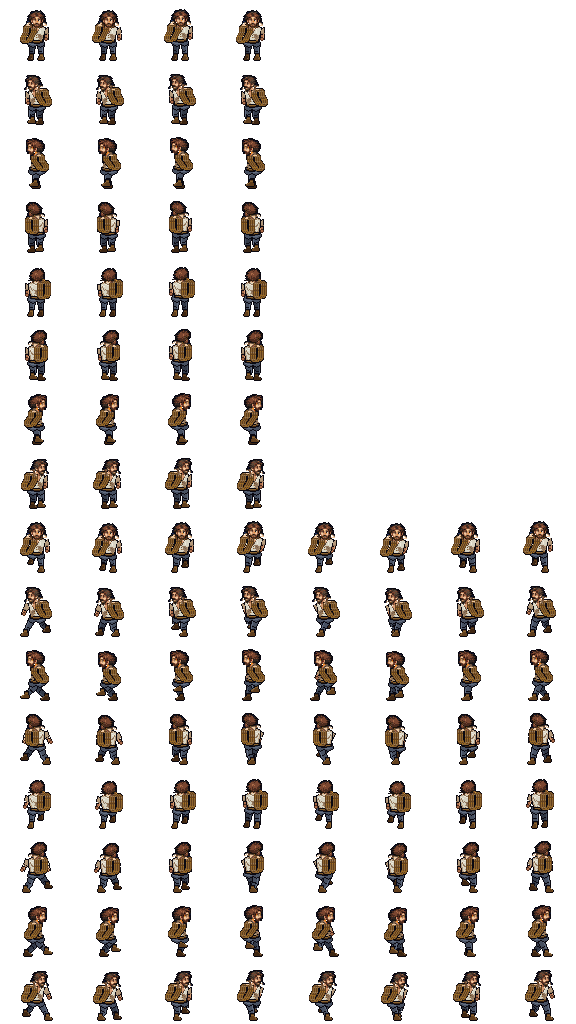
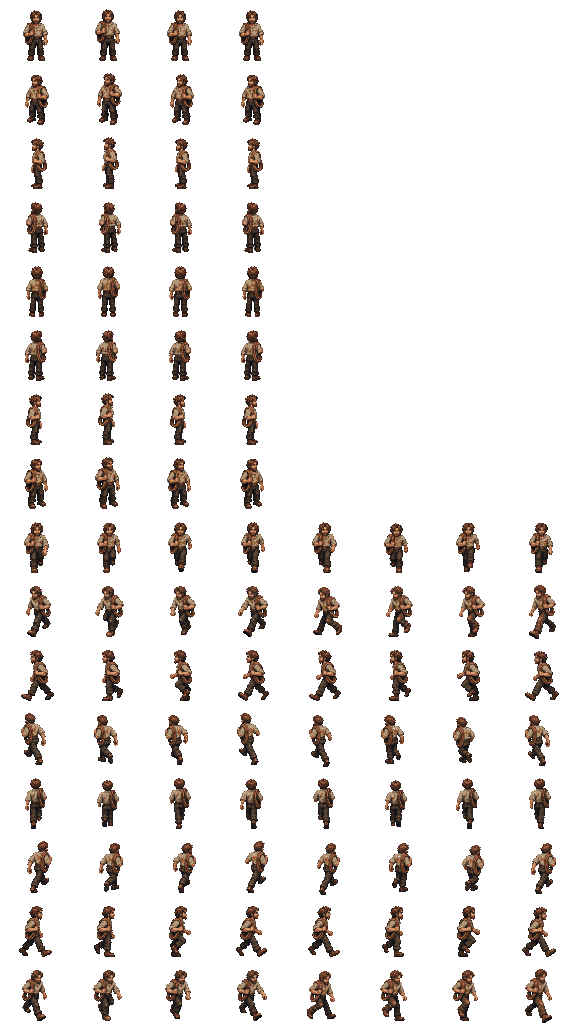
The hired hand redrawn: the art desk's illustrated figures cut by its own recipe, the house's colours
Art-wanted 65's ART-WANTED-76 HIRED-HAND ILLUSTRATED REVIEW, the man and the woman, on the lanes desk's relay of Griz's
word, verbatim: "hired hand is in Fresh but I'm not sure it's complete - art dept hit ceiling, but it might have been on a
redraw attempt and we can wishlist what's broken and use what's there if it included all the pieces". Every piece was there
(both figures, five views, idle 4 and walk 8; 23 pages, every SHA-256 matched), three walks held by the art desk for a
repeated lead. Sorted to deep16/_src/folkcostumes/2026-11-16-ART-WANTED-76-HIRED-HAND-REDRAW/
(_src/art-desk/art76-hired-redraw-sort-2026-11-16.py).

tools/folk-costume-sheet.py `illus`: an illustrated redraw on the navy with no native cut -- the art desk's crop, key,
BOX reduction and place from FRAME-MAP.json and CUTTER-NOTES.md (reproduced against its own 1x previews: the outline exact
in all 120 frames), the colours by the house's two rules (`house_colours`, shared with the lime path: the art desk's
nearest-in-RGB put orange on the hands and red spots on the shirts). Every other costume rebuilt byte for byte.

folk1115 22 ok, parade1115 21 ok. Eyes eyes-folk-hired-redraw-1116 (the parade at the hell hound); the held walks on the
dream list.

diff --git a/js/eyes.js b/js/eyes.js
@@ -22,6 +22,11 @@
   var DS = window.DS = window.DS || {};
   var G1 = 'Eyes: first', G2 = 'Eyes: built this week', G3 = 'Eyes: built before, never seen';
   DS.EYES = {
+    // THE REDRAW CUTTER (cutter-redraw-1116), 11-16 (Opus; tools/folk-costume-sheet.py `illus`; deep16/art/folk{man,woman}_hired_p1): the hired hand redrawn
+    'eyes-folk-hired-redraw-1116': { pri: 2, group: G2, title: 'THE HIRED HAND REDRAWN: the street hand and the Galleries\' rope-war in the art desk\'s illustrated figures (11-16)', pt: 'the bestiary lane, 2026-11-16 (the redraw cutter, cutter-redraw-1116; tools/folk-costume-sheet.py; deep16/art/folk{man,woman}_hired_p1)',
+      obj: 'In the parade, watch the hired hands walk in round the hell hound — do they read as their portraits, rope on the shoulder?',
+      url: 'deep16/?parade&only=wyvern,frostgiant,winterwolf,hellhound&from=4&fresh=1116hh',
+      look: 'A SHOW, the parade opened at its fourth creature, the hell hound, which the hired hand (the man and the woman) and the guard walk in round. Your "hired hand is in Fresh but I\'m not sure it\'s complete - art dept hit ceiling, but it might have been on a redraw attempt and we can wishlist what\'s broken and use what\'s there if it included all the pieces": it did include them all, so it is cut whole, in place of the code-drawn pair -- a sweat-stained shirt and a coil of rope over the shoulder. Three walks the art desk held for a fix it ran out of drawing for (the man\'s E and NE, the woman\'s NE, with their mirrors: the second half-stride leads with the same leg as the first) are in as drawn and on the wishlist. Their own floors: the street hand on Silverton\'s street (deep16/?roam=silverton&lvl=3), the rope-war on the Guano Galleries (deep16/?roam=galleries_g2&at=15,7&light=lantern&lvl=3); every frame on deep16/?rows=folkman_hired_p1,folkwoman_hired_p1. Judge: do they read as the hired hands of their portraits, and does a held walk limp?' },
     // THE REDRAW CUTTER (cutter-redraw-1116), 11-16 (Opus; tools/folk-costume-sheet.py; deep16/art/folk{man,woman}_{gambler,barkeep}_p1): the gambler and the barkeep redrawn
     'eyes-folk-gambler-barkeep-redraw-1116': { pri: 2, group: G2, title: 'THE GAMBLER AND THE BARKEEP REDRAWN: the Hex\'s four in the art desk\'s illustrated figures (11-16)', pt: 'the bestiary lane, 2026-11-16 (the redraw cutter, cutter-redraw-1116; tools/folk-costume-sheet.py; deep16/art/folk{man,woman}_{gambler,barkeep}_p1)',
       obj: 'In the parade, watch the gamblers and barkeeps walk in round the winter wolf — do they look like their portraits?',

diff --git a/deep16/data/sprites.js b/deep16/data/sprites.js
@@ -5293,7 +5293,7 @@
 "source": "drawn by the art desk (ART-WANTED-77 GUARD, 11-15: five views, Idle 4 and Walk 8, native 3x on folkman_p1's cell), cut by tools/folk-costume-sheet.py (11-15)"
 },
 "folkman_hired_p1": {
-"image": "art/folkman_hired_p1.png?v=1d99039cfe",
+"image": "art/folkman_hired_p1.png?v=b4bc7b7ff0",
 "fw": 72,
 "fh": 64,
 "ax": 36,
@@ -5319,7 +5319,7 @@
 "fps": 12
 }
 },
-"source": "drawn by the art desk (ART-WANTED-76 HIRED-HAND, 11-15: five views, Idle 4 and Walk 8, native 4x on folkman_p1's cell), cut by tools/folk-costume-sheet.py (11-15)"
+"source": "drawn by the art desk (ART-WANTED-76 HIRED-HAND ILLUSTRATED REDRAW, 11-16: five views, Idle 4 and Walk 8, image-generated on the navy), cut by tools/folk-costume-sheet.py (11-15)"
 },
 "folkman_lightcrew_p1": {
 "image": "art/folkman_lightcrew_p1.png?v=f1a20814eb",
@@ -5612,7 +5612,7 @@
 "source": "drawn by the art desk (ART-WANTED-77 GUARD, 11-15: five views, Idle 4 and Walk 8, native 3x on folkman_p1's cell), cut by tools/folk-costume-sheet.py (11-15)"
 },
 "folkwoman_hired_p1": {
-"image": "art/folkwoman_hired_p1.png?v=67bb65fef8",
+"image": "art/folkwoman_hired_p1.png?v=926685ed8c",
 "fw": 72,
 "fh": 64,
 "ax": 36,
@@ -5638,7 +5638,7 @@
 "fps": 12
 }
 },
-"source": "drawn by the art desk (ART-WANTED-76 HIRED-HAND, 11-15: five views, Idle 4 and Walk 8, native 4x on folkman_p1's cell), cut by tools/folk-costume-sheet.py (11-15)"
+"source": "drawn by the art desk (ART-WANTED-76 HIRED-HAND ILLUSTRATED REDRAW, 11-16: five views, Idle 4 and Walk 8, image-generated on the navy), cut by tools/folk-costume-sheet.py (11-15)"
 },
 "folkwoman_lightcrew_p1": {
 "image": "art/folkwoman_lightcrew_p1.png?v=b84510e91a",

diff --git a/deep16/index.html b/deep16/index.html
@@ -77,7 +77,7 @@
 <script src="js/art.js?v=e1ce4cf012"></script>
 <script src="data/cavern.js?v=647c1a184a"></script>
 <script src="data/maps.js?v=bef56a5de9"></script>
-<script src="data/sprites.js?v=17d39f627d"></script>
+<script src="data/sprites.js?v=4d93ab7fe5"></script>
 <script src="js/sprites.js?v=ac7a3234c4"></script>
 <script src="js/save.js?v=f69af62f01"></script>
 <script src="data/spells.js?v=ae0037fb81"></script>
@@ -191,7 +191,7 @@
 <script src="js/parade.js?v=c64f9440c0"></script>
 <script src="js/ripplesfight.js?v=06a2bb3211"></script>
 <script src="js/blackegg.js?v=a19c31ed0d"></script>
-<script src="../js/eyes.js?v=eeb3924b89"></script>
+<script src="../js/eyes.js?v=fd46fdd3ce"></script>
 <script src="../js/tour.js?v=b1204ba29c"></script>
 <script src="js/onegallery.js?v=76e4ef74c9"></script>
 <script src="js/situations16.js?v=f04fedccd1"></script>

diff --git a/tools/folk-costume-sheet.py b/tools/folk-costume-sheet.py
@@ -29,6 +29,14 @@ saturation over 0.25: the woman's shawl) -- else the warm browns of hair, mug, b
 1x shows (the 10-29 cutters' "avoid red and fire", kept off the one cloth that is red); and a pale cloth (saturation under 0.55: the man's
 work shirt, the woman's apron and sleeves) kept off skin and gold as well -- else the shirt snaps to the skin ramp whole and he reads
 shirtless (the cutscene cutter's 10-29 "a cream cloth at the skin's hue ... kept out by the band"). Faces and hands run 0.6 and up.
+
+The ILLUSTRATED REDRAWS ON THE NAVY WITH NO NATIVE CUT (`illus`, 11-16; the redraw cutter seat, on the lanes desk's relay of Griz's "hired hand is in
+Fresh but I'm not sure it's complete - art dept hit ceiling, but it might have been on a redraw attempt and we can wishlist what's broken and use
+what's there if it included all the pieces"): the hired hand's FRAME-MAP.json gives each frame's crop (`source_xywh`), its size at 1x
+(`reduce_wh`) and its place in the cell (`paste_xy`); its CUTTER-NOTES.md the key -- the navy the channel-wise median of the crop's outermost three
+columns each side (the approved checkpoint page: its left 35, and its enclosed holes under 62 source pixels filled), the largest 4-connected piece
+whose largest channel stands more than 10 off it, Pillow BOX down, alpha at 124. Reproduced against the art desk's own 1x previews: the outline
+exact in all 120 frames. The colours by the house's two rules, the lime path's (`house_colours`), not the art desk's nearest-in-RGB.
 """
 import os, sys, json, csv
 import importlib.util
@@ -72,8 +80,11 @@ PIECES = {
                     navy=None, stand=False, unred={'folkman_gambler_p1': 12, 'folkwoman_gambler_p1': 12}),
     'barkeep': dict(folder='2026-11-16-ART-WANTED-75-BARKEEP-REDRAW', name='ART-WANTED-75 BARKEEP ILLUSTRATED REDRAW, 11-16: five views, Idle 4 and Walk 8, image-generated, its native cut 1x on folkman_p1\'s cell',
                     navy=None, stand=False, unred={'folkman_barkeep_p1': 17, 'folkwoman_barkeep_p1': 0}),
-    'hired': dict(folder='2026-11-15-ART-WANTED-76-HIRED-HAND', name='ART-WANTED-76 HIRED-HAND, 11-15: five views, Idle 4 and Walk 8, native 4x on folkman_p1\'s cell',
-                  navy=(17, 24, 45), stand=False),
+    # (the hired hand's first, code-drawn pages -- 2026-11-15-ART-WANTED-76-HIRED-HAND, native 4x, navy (17, 24, 45) -- replaced by its redraw, 11-16:
+    # image-generated on the navy with no native cut, `illus`; three walks the art desk held for a repeated lead (the man's E and NE, the woman's NE)
+    # cut as drawn on his "use what's there", on the dream list)
+    'hired': dict(folder='2026-11-16-ART-WANTED-76-HIRED-HAND-REDRAW', name='ART-WANTED-76 HIRED-HAND ILLUSTRATED REDRAW, 11-16: five views, Idle 4 and Walk 8, image-generated on the navy',
+                  illus={'HIRED-HAND-WOMAN-SOUTH-IDLE-IMAGEGEN.png': (35, 62)}, stand=False),
     'guard': dict(folder='2026-11-15-ART-WANTED-77-GUARD', name='ART-WANTED-77 GUARD, 11-15: five views, Idle 4 and Walk 8, native 3x on folkman_p1\'s cell',
                   navy=(16, 18, 40), stand=False),
     'crewboss': dict(folder='2026-11-15-ART-WANTED-78-CREW-BOSS-WORLD', name='ART-WANTED-78 CREW-BOSS-WORLD, 11-15: five views, Idle 4 and Walk 8, native 4x on folkman_p1\'s cell',
@@ -146,6 +157,19 @@ LIME_REDBAND = (330, 360, 0.25)        # (red and fire only on a crimson: hue fr
 LIME_CLOTH = 0.55                      # (under this saturation a pale cloth, kept off skin and gold too)
 
 
+def house_colours(rgb):
+    """reduced colours (0-1) -> the 64 by the house's two rules: red and fire only on a crimson; a pale cloth kept off skin and gold too"""
+    mx, mn = rgb.max(-1), rgb.min(-1)
+    d = np.maximum(mx - mn, 1e-6)
+    hue = np.where(mx == rgb[..., 0], ((rgb[..., 1] - rgb[..., 2]) / d) % 6,
+                   np.where(mx == rgb[..., 1], (rgb[..., 2] - rgb[..., 0]) / d + 2, (rgb[..., 0] - rgb[..., 1]) / d + 4)) * 60
+    lo, hi, smin = LIME_REDBAND
+    sat = (mx - mn) / np.maximum(mx, 1e-6)
+    crim = (hue >= lo) & (hue < hi) & (sat > smin)
+    return np.where(crim[..., None], pix.snap(rgb),
+                    np.where((sat < LIME_CLOTH)[..., None], pix.snap(rgb, ['red', 'fire', 'skin', 'gold']), pix.snap(rgb, ['red', 'fire'])))
+
+
 def lime_frame(a, rw, rh):
     """one illustrated pose on the lime ground -> RGBA at rw x rh, every colour one of the 64 (the module's head: the art desk's recipe,
     despilled, red kept to the crimson)"""
@@ -160,15 +184,7 @@ def lime_frame(a, rw, rh):
     rgba = np.dstack([c.astype(np.uint8), (m * 255).astype(np.uint8)])
     r = np.asarray(Image.fromarray(rgba, 'RGBA').resize((rw, rh), Image.LANCZOS)).astype(np.float32)
     rgb, solid = r[..., :3] / 255, r[..., 3] >= 123
-    mx, mn = rgb.max(-1), rgb.min(-1)
-    d = np.maximum(mx - mn, 1e-6)
-    hue = np.where(mx == rgb[..., 0], ((rgb[..., 1] - rgb[..., 2]) / d) % 6,
-                   np.where(mx == rgb[..., 1], (rgb[..., 2] - rgb[..., 0]) / d + 2, (rgb[..., 0] - rgb[..., 1]) / d + 4)) * 60
-    lo, hi, smin = LIME_REDBAND
-    sat = (mx - mn) / np.maximum(mx, 1e-6)
-    crim = (hue >= lo) & (hue < hi) & (sat > smin)
-    sn = np.where(crim[..., None], pix.snap(rgb),
-                  np.where((sat < LIME_CLOTH)[..., None], pix.snap(rgb, ['red', 'fire', 'skin', 'gold']), pix.snap(rgb, ['red', 'fire'])))
+    sn = house_colours(rgb)
     out = np.zeros((rh, rw, 4), np.uint8)
     out[solid, :3] = sn[solid]; out[solid, 3] = 255
     return out
@@ -191,6 +207,43 @@ def lime_frames(d, fw, fh):
     return out
 
 
+def illus_frames(d, fw, fh, special):
+    """an illustrated redraw on the navy with no native cut -> [(sheet, view, row, index, RGBA cell)]: the art desk's crop, key, reduction and
+    place (the module's head), the house's colours; `special` {page: (edge columns from the left, holes under this filled)}"""
+    pages, out = {}, []
+    for e in json.load(open(os.path.join(d, 'FRAME-MAP.json'), encoding='utf-8')):
+        p = e['source_png']
+        if p not in pages:
+            pages[p] = np.asarray(Image.open(os.path.join(d, p)).convert('RGB')).astype(np.int32)
+        x, y, w, h = e['source_xywh']
+        c = pages[p][y:y + h, x:x + w]
+        left, holes = special.get(os.path.basename(p), (None, 0))
+        edge = c[:, :left] if left else np.concatenate([c[:, :3], c[:, -3:]], 1)
+        navy = np.median(edge.reshape(-1, 3), axis=0)
+        fg = np.abs(c - navy).max(-1) > 10
+        lab, n = ndimage.label(fg)
+        if not n:
+            raise SystemExit('%s: no figure in the window' % p)
+        keep = lab == 1 + int(np.argmax(ndimage.sum(fg, lab, range(1, n + 1))))
+        if holes:
+            hl, hn = ndimage.label(ndimage.binary_fill_holes(keep) & ~keep)
+            for k, sz in enumerate(ndimage.sum(hl > 0, hl, range(1, hn + 1)), 1):
+                if sz < holes:
+                    keep |= hl == k
+        rw, rh = e['reduce_wh']
+        px, py = e['paste_xy'][:2]
+        if px < 0 or py < 0 or px + rw > fw or py + rh > fh:
+            raise SystemExit('%s %s %s %d: placed outside the cell' % (e['runtime_target'], e['facing'], e['runtime_row'], e['frame_1based']))
+        r = np.asarray(Image.fromarray(np.dstack([c.astype(np.uint8), (keep * 255).astype(np.uint8)]), 'RGBA').resize((rw, rh), Image.BOX)).astype(np.float32)
+        solid = r[..., 3] >= 124
+        sn = house_colours(r[..., :3] / 255)
+        cell = np.zeros((fh, fw, 4), np.uint8)
+        cell[py:py + rh, px:px + rw][solid, :3] = sn[solid]
+        cell[py:py + rh, px:px + rw][solid, 3] = 255
+        out.append((e['runtime_target'], e['facing'], e['runtime_row'], int(e['frame_1based']) - 1, cell))
+    return out
+
+
 def cut(costume):
     """-> {sheet name: {row: [8 facings of [RGBA frames]]}}. A fight piece says its own `cell` (fw, fh, ax, ay), its `targets` {the art
     desk's target: the sheet} and its `rows` [(the art desk's row, the sheet's row, frames, fps, release)]; a costume takes folkman_p1's"""
@@ -200,15 +253,15 @@ def cut(costume):
     rowmap = {r[0]: (r[1], r[2]) for r in P['rows']} if P.get('rows') else {an: (an, n) for an, n in COUNT.items()}
     d = os.path.join(AD.src_dir(ROOT), 'folkcostumes', P['folder'])
     pal, got, pages = palette(), {}, {}
-    if P.get('lime'):
-        for name, v, an, idx, fr in lime_frames(d, fw, fh):
+    if P.get('lime') or P.get('illus'):
+        for name, v, an, idx, fr in (illus_frames(d, fw, fh, P['illus']) if P.get('illus') else lime_frames(d, fw, fh)):
             if name not in names or an not in rowmap:
                 raise SystemExit('a frame for %s %s, not %s' % (name, an, costume))
             off = {tuple(c) for c in fr[fr[..., 3] > 0][:, :3]} - pal
             if off:
                 raise SystemExit('%s %s %s %d: %d colours off the 64' % (name, v, an, idx + 1, len(off)))
             got.setdefault(names[name], {}).setdefault(v, {}).setdefault(rowmap[an][0], {})[idx] = fr
-    for name, v, an, idx, page, (x, y, w, h) in ([] if P.get('lime') else frames_of(d)):
+    for name, v, an, idx, page, (x, y, w, h) in ([] if P.get('lime') or P.get('illus') else frames_of(d)):
         if name not in names:
             raise SystemExit('%s: a frame for %s, not %s' % (page, name, costume))
         if an not in rowmap:

diff --git a/deep16-dream-polish.md b/deep16-dream-polish.md
@@ -148,3 +148,4 @@ Griz, 10-30, to the lanes desk, on Talmok's walks that repeat a leg: *"gimpy art
 - 2026-11-16 · `folkman_gambler_p1` SE walk and its SW mirror; `folkwoman_gambler_p1` NE and N walks (the art desk's 74 illustrated redraw) · The art desk's own notes: the man's head drops 3 px at frame 5 with his feet on the line, a dip at the second contact (measured on the cut: his crown on row 13, 10 in the rest); the woman's skirt hides her far boot in the walks from behind. Cut as drawn. · An SE walk whose frame 5 stands at the other contacts' height; rear walks with both boots showing.
 - 2026-11-16 · `folkwoman_barkeep_p1` N walk (the art desk's 75 illustrated redraw) · The art desk's own note, measured on the cut: her crown rises 2 px at frame 5 (row 11, 13 before) and drops to 14 at 6 and 7, a bob where the second half-stride's new poses join. Cut as drawn. · An N walk whose second half-stride holds the first's height.
 - 2026-11-16 · `pegasus_p1` fly, takeflight, walk (the art desk's 69 illustrated redraw) · The art desk's own review holds: each frame was stood by its own lowest pixel, so in flight the body bobs with the wings -- the big jumps (14 to 19 px, SE and E) laid back by the cutter, about 6 px left in S frame 6 and SE frame 5; Take Flight's last frame is not Fly's first (a small jump in scale and wing at the top); the E and rear NE walks' leg contacts not checked as a gait. Cut as drawn but the big jumps. · A flight cycle registered on the body, a take-off ending on Fly's first pose, and walks with the contacts alternating.
+- 2026-11-16 · `folkman_hired_p1` E and NE walks (and their W and NW mirrors), `folkwoman_hired_p1` NE walk (and NW) (the art desk's 76 illustrated redraw) · Held by the art desk, which hit its image ceiling mid-fix: frames 1 and 5 lead with the same leg, so the stride repeats. Cut as drawn on his *"we can wishlist what's broken and use what's there if it included all the pieces"*. Its own note too: in the three repaired walks (the woman's SE and E, the man's SE) the 4 to 5 join is more abrupt than 8 to 1. · Those walks with a second contact on the other leg, joined smoothly at 5.
